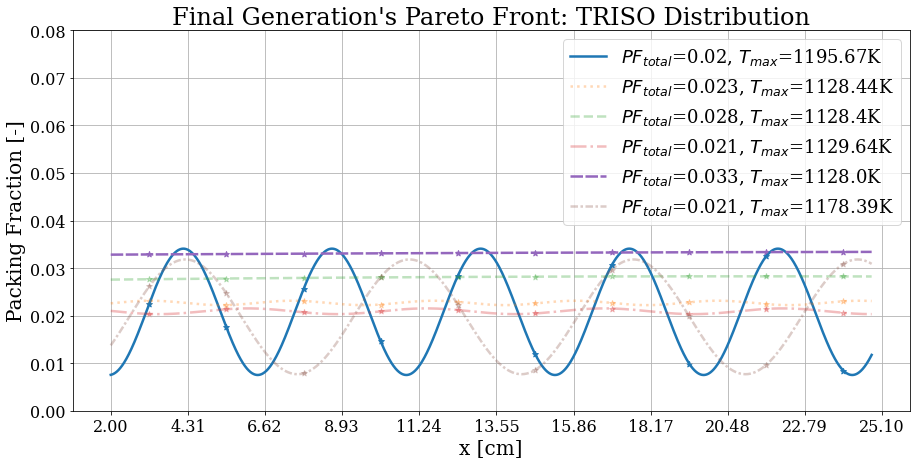
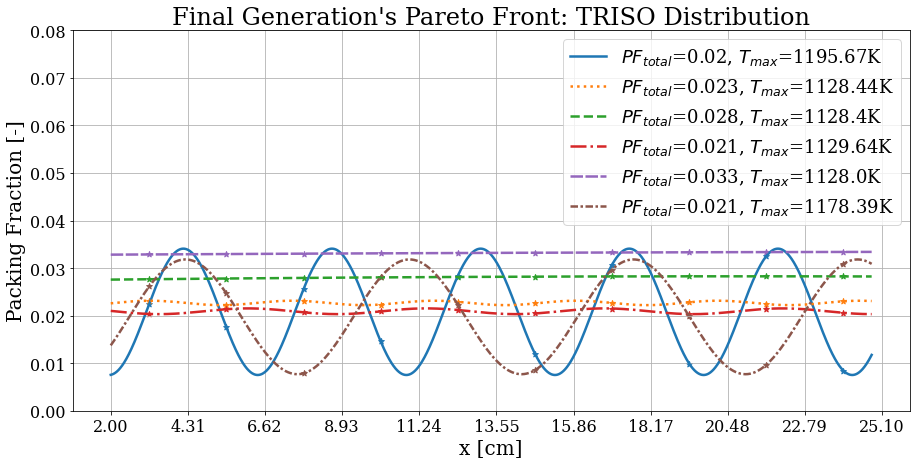
edits

diff --git a/docs/ahtr_rollo_slab.tex b/docs/ahtr_rollo_slab.tex
@@ -755,14 +755,14 @@ $PPF_{fuel}$, respectively.
     \begin{subfigure}{\textwidth}
         \includegraphics[width=\linewidth]{slab-obj-2-pfppf-min-pf.png}
         \caption{\gls{AHTR} plank model with the most-minimized $PF_{total}$
-        (corresponds to the orange bolded distribution in Figure 
+        (corresponds to the orange dotted distribution in Figure 
         \ref{fig:slab-obj-2-pfppf-pareto-distr}).}
         \label{fig:slab-obj-2-pfppf-min-pf} 
     \end{subfigure}
     \begin{subfigure}{\textwidth}
         \includegraphics[width=\linewidth]{slab-obj-2-pfppf-min-ppf.png}
         \caption{\gls{AHTR} plank model with the most-minimized $PPF_{fuel}$
-        (corresponds to the blue bolded distribution in Figure 
+        (corresponds to the blue solid distribution in Figure 
         \ref{fig:slab-obj-2-pfppf-pareto-distr}).}
         \label{fig:slab-obj-2-pfppf-min-ppf} 
     \end{subfigure}
